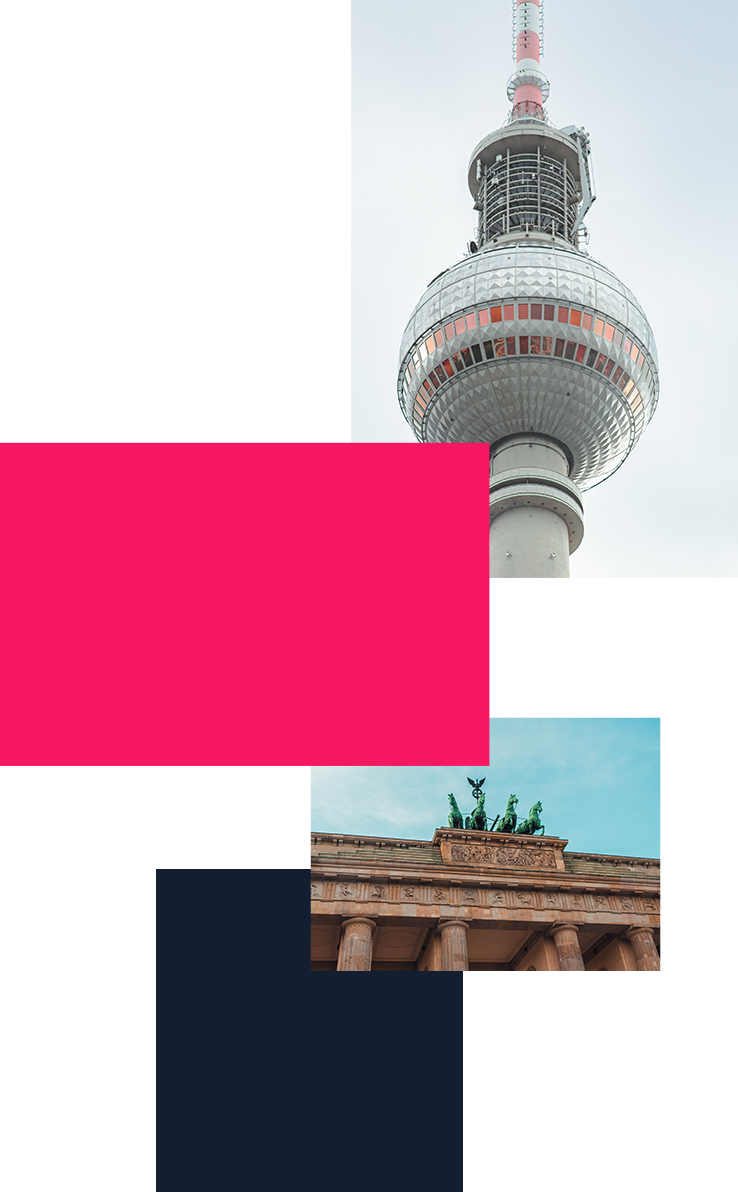
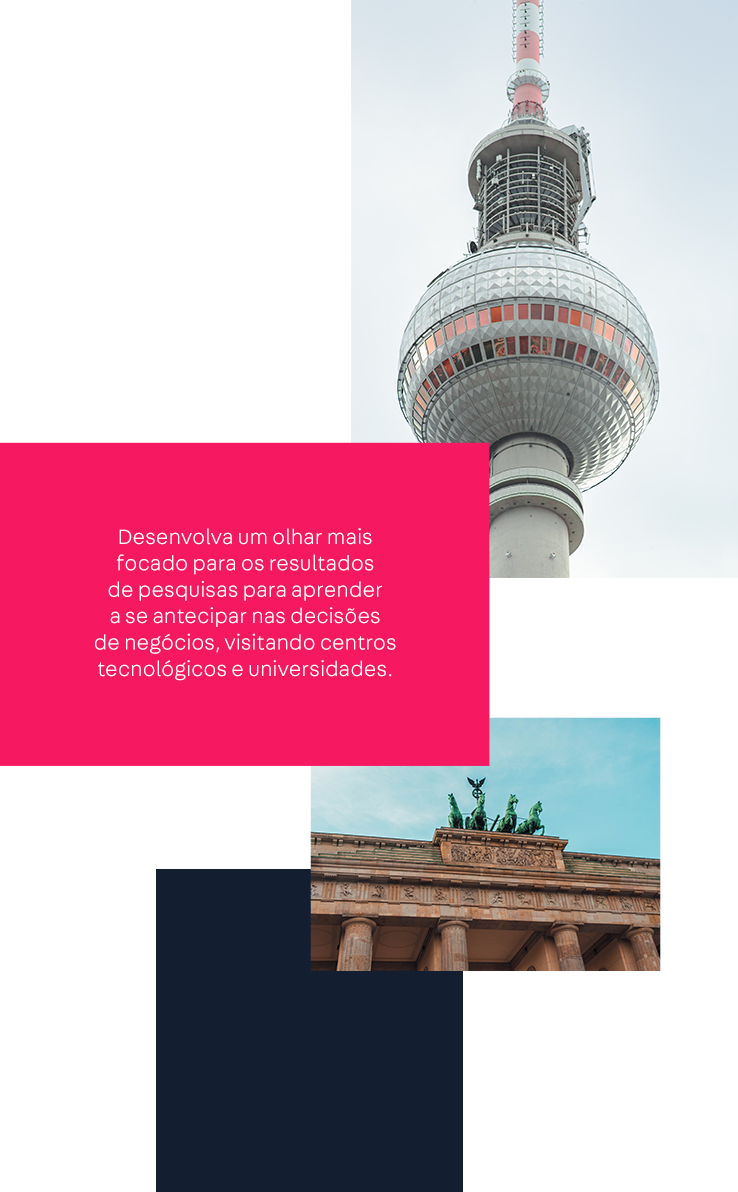
Overall layout tweaks

Changed region(s): [[0.1247, 0.4346, 0.5298, 0.5898]]

diff --git a/react/components/Tetrix/Prizes.tsx b/react/components/Tetrix/Prizes.tsx
@@ -143,62 +143,13 @@ const Prizes: FunctionComponent = () => {
       </div>
       <div className="w-50-l w-75 dn flex-l center">
         <Carousel heightMode="first" slideIndex={activeSlide} withoutControls>
-          <div className="relative">
-            <p className="z-2 pt6 absolute w-33 dn flex-l">
-              Conheça os desafios do e-commerce na América Latina
-              hispanohablante, conhecendo as características do mercado e dos
-              clientes latinos de língua espanhola.
-            </p>
-            <img src={Santiago} alt="" />
-          </div>
-          <div className="relative">
-            <p className="z-2 pt6 absolute w-33 dn flex-l">
-              Na megalópole norte-americana, desenvolva suas habilidades de
-              networking, conhecendo negócios da área de tecnologia e
-              descobrindo oportunidades de expansão inovadoras.
-            </p>
-            <img src={NewYork} alt="" />
-          </div>
-          <div className="relative">
-            <p className="z-2 pt6 absolute w-33 dn flex-l">
-              Na terra da Rainha, aprenda como as fintechs estão revolucionando
-              o mercado financeiro global, compreendendo os desafios de
-              desenvolvimento, os limites das legislações locais.
-            </p>
-            <img src={London} alt="" />
-          </div>
-          <div className="relative">
-            <p className="z-2 pt6 absolute w-33 dn flex-l">
-              Desenvolva um olhar mais focado para os resultados de pesquisas
-              para aprender a se antecipar nas decisões de negócios, visitando
-              centros tecnológicos e universidades.
-            </p>
-            <img src={Berlim} alt="" />
-          </div>
-          <div className="relative">
-            <p className="z-2 pt6 absolute w-33 dn flex-l">
-              Desenvolva um olhar mais focado para os resultados de pesquisas
-              para aprender a se antecipar nas decisões de negócios, visitando
-              centros tecnológicos e universidades.
-            </p>
-            <img src={HongKong} alt="" />
-          </div>
-          <div className="relative">
-            <p className="z-2 pt6 absolute w-33 dn flex-l">
-              Entenda os diferenciais da capital paulista no cenário de comércio
-              eletrônico brasileiro, reconhecendo as razões da sua importância
-              para o e-commerce da América Latina.
-            </p>
-            <img src={SaoPaulo} alt="" />
-          </div>
-          <div className="relative">
-            <p className="z-2 pt6 absolute w-33 dn flex-l">
-              Visualize na prática os desafios no desenvolvimento e na
-              programação da infraestrutura necessária para a viabilização de
-              negócios digitais.
-            </p>
-            <img src={Rio} alt="" />
-          </div>
+          <img src={Santiago} alt="" />
+          <img src={NewYork} alt="" />
+          <img src={London} alt="" />
+          <img src={Berlim} alt="" />
+          <img src={HongKong} alt="" />
+          <img src={SaoPaulo} alt="" />
+          <img src={Rio} alt="" />
         </Carousel>
       </div>
     </section>

diff --git a/react/components/Tetrix/About.tsx b/react/components/Tetrix/About.tsx
@@ -48,7 +48,7 @@ const About: FunctionComponent = () => {
         </div>
         <div className={iconClasses}>
           <img src={Icon5} style={{ width: '100px', height: '100px' }} />
-          <p className="tc">COLLECTIVE ADMIRATION</p>
+          <p className="tc">ADMIRAÇÃO COLETIVA</p>
         </div>
         <div className={iconClasses}>
           <img src={Icon6} style={{ width: '100px', height: '100px' }} />
@@ -60,7 +60,7 @@ const About: FunctionComponent = () => {
         </div>
         <div className={iconClasses}>
           <img src={Icon8} style={{ width: '100px', height: '100px' }} />
-          <p className="c-emphasis tc">REFERENCE VOICE</p>
+          <p className="c-emphasis tc">VOZ DE REFERÊNCIA</p>
         </div>
       </div>
     </section>

diff --git a/react/components/Tetrix/Header.tsx b/react/components/Tetrix/Header.tsx
@@ -28,8 +28,9 @@ const Header: FunctionComponent = () => (
     <div className="flex flex-column flex-row-l justify-around items-center mt5">
       <div className="flex flex-column justify-around w-40-l w-90 order-1 order-0-l">
         <p className="t-heading-2 c-on-base bold">
-          QUAL A ÚLTIMA VEZ QUE VOCÊ SE SURPREENDEU COM <br />
-          <span className="underline c-muted-5">VOCÊ MESMO?</span>
+          QUAL A ÚLTIMA VEZ QUE VOCÊ SE SURPREENDEU
+          <br />
+          <span className="underline c-muted-5"> COM VOCÊ MESMO?</span>
         </p>
         <p className="c-on-base lh-copy">
           No Tetrix, o Desafio, você será capaz de descobrir se o seu
